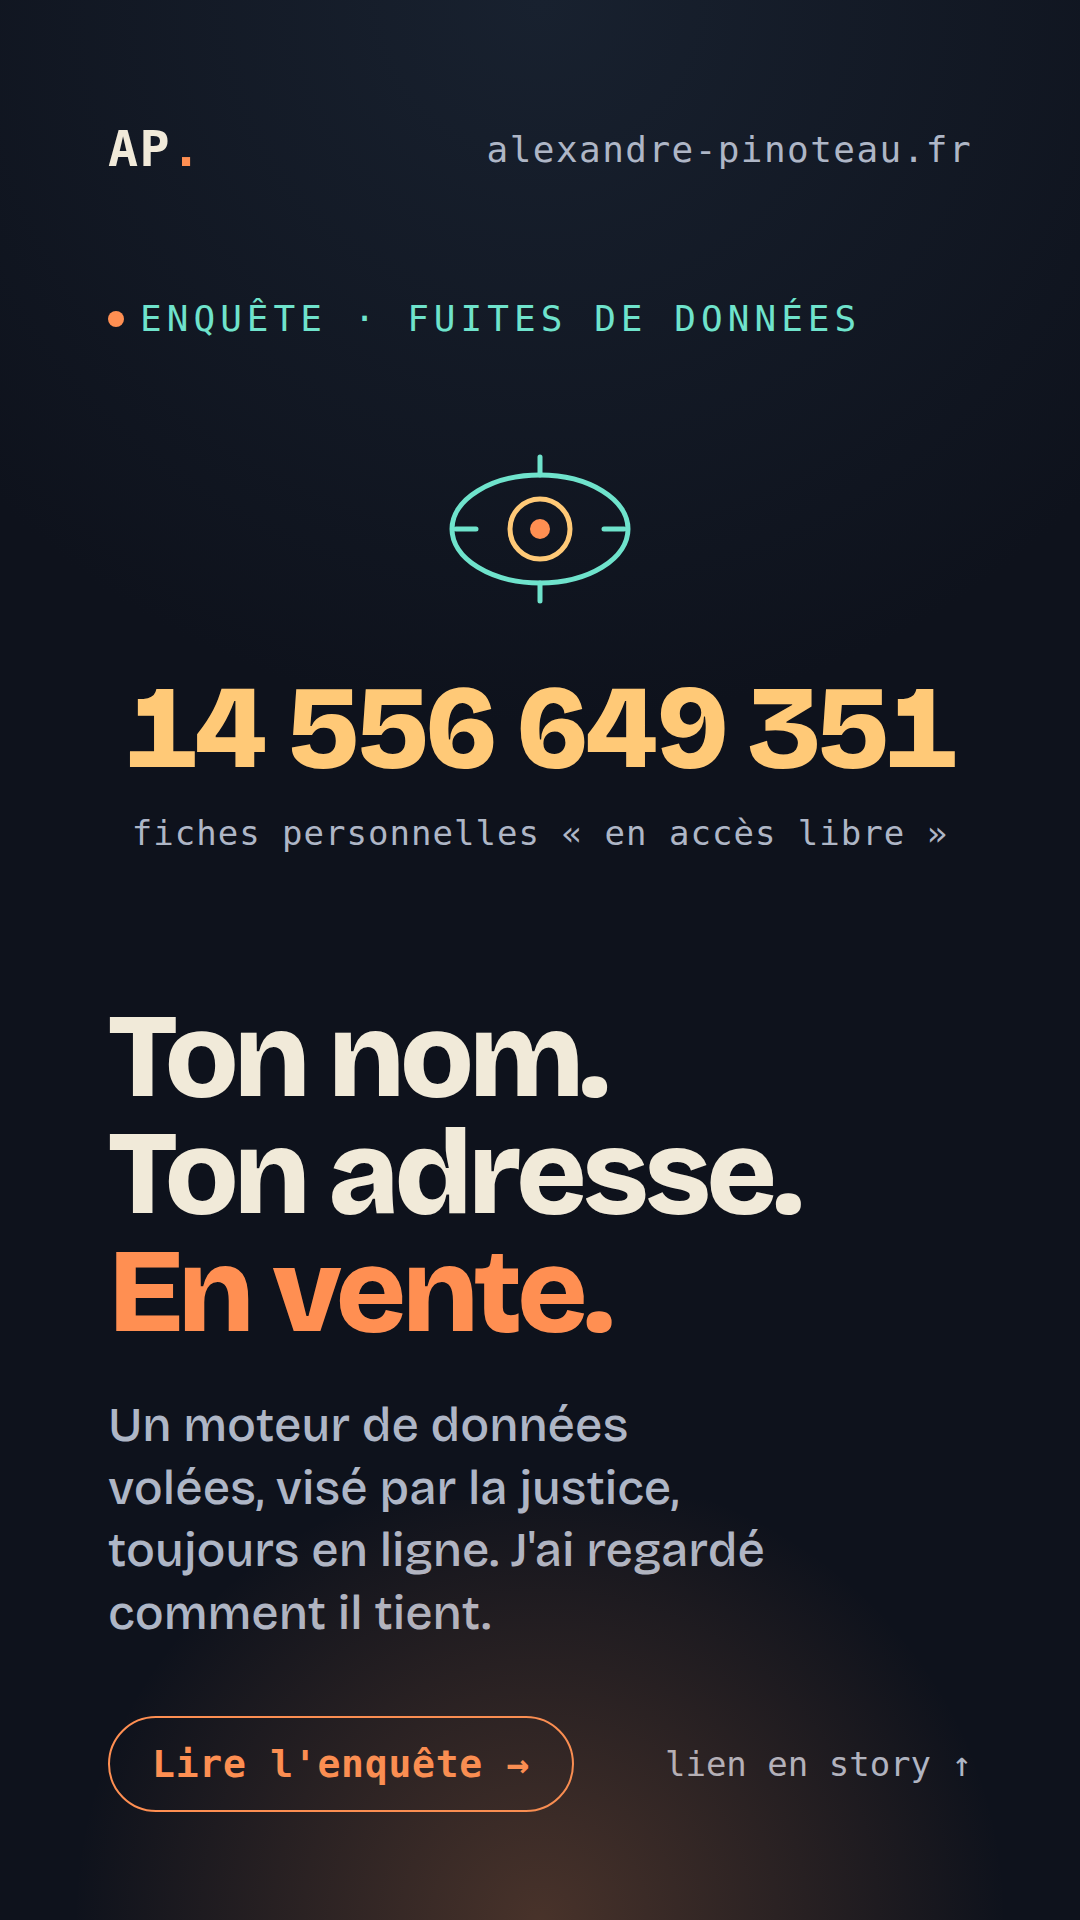
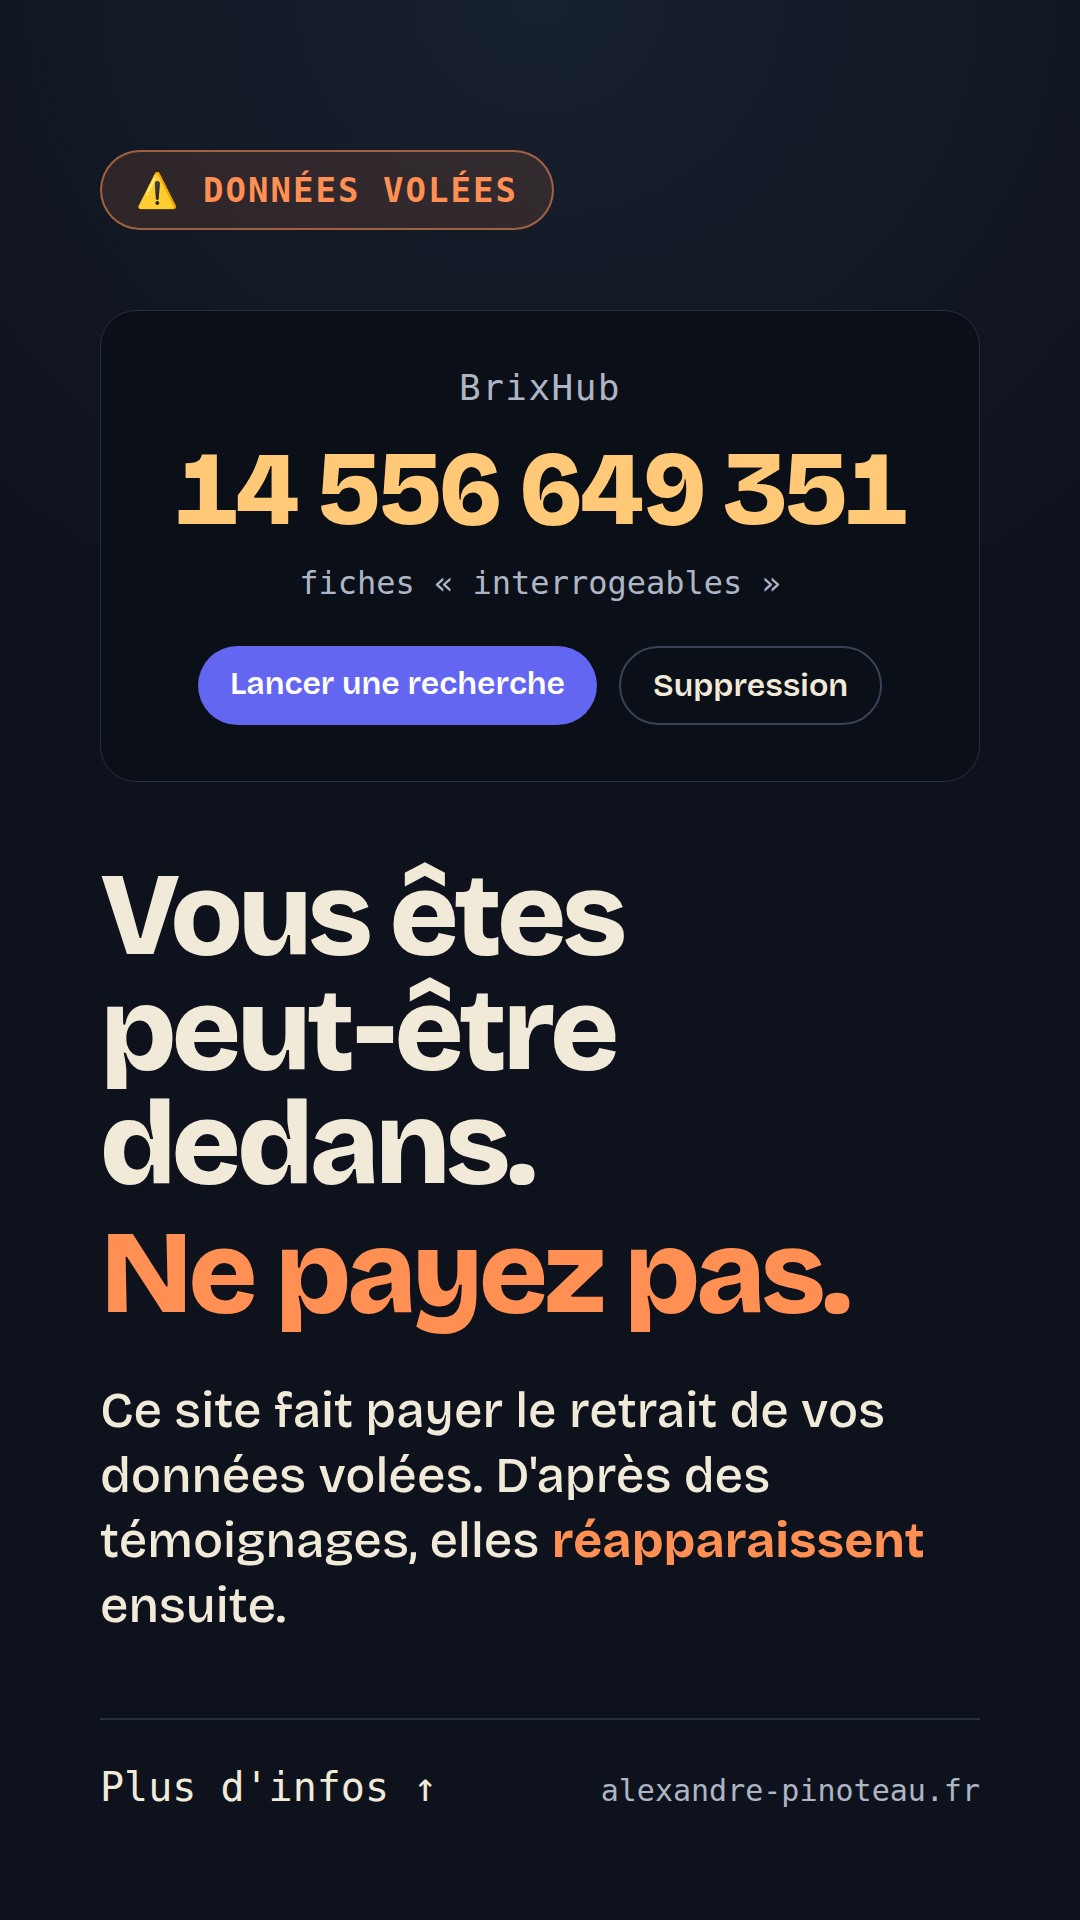
Relecture : métaphore du code réécrite, témoignages de fiches BrixHub réapparues, stories au ton prévention

diff --git a/site/blog/brixhub.html b/site/blog/brixhub.html
@@ -73,6 +73,7 @@
       <p class="t">C'est le piège dans le piège</p>
       <p>Vous paieriez les gens qui détiennent vos données volées, pour qu'ils promettent de les effacer. Rien ne garantit qu'ils le font. Et si vous envoyez votre pièce d'identité, vous leur donnez une donnée de plus, parfaitement authentique cette fois. Le gouvernement comme la CNIL sont formels : <strong>ne payez pas, n'envoyez rien</strong>.</p>
     </div>
+    <p>Et ce n'est pas qu'une mise en garde théorique. Sur X (ex-Twitter), des internautes racontent avoir payé pour faire retirer leur fiche : elle a bien disparu… quelques jours, avant de <strong>réapparaître</strong>. Normal : effacer une ligne d'un affichage ne fait pas disparaître la donnée du fichier volé, que l'opérateur garde. Il peut la remettre en ligne, la revendre, ou vous refaire payer.</p>
 
     <figure class="shot"><img src="img/brixhub/brixhub-recherche.webp" width="1400" height="1050" loading="lazy" alt="Page de recherche de BrixHub : des champs « Nom », « Prénom », « Nom de naissance », « Nom affiché », et des sections repliées « Naissance », « Contact », « Localisation »."><figcaption>Le formulaire de recherche. On y entre un nom, un prénom, une date de naissance. La promesse affichée : « Un critère. Tout ce qui a fuité. »</figcaption></figure>
 
@@ -202,7 +203,7 @@
     <ul>
       <li><strong>L'hébergeur réel du site</strong> et l'identité des opérateurs : masqués. Rien d'attribuable par les seules sources passives.</li>
       <li><strong>L'origine réelle des données</strong> : le site affiche des sources prestigieuses (organismes publics), aucune confirmée. Je ne reprends pas ces affirmations.</li>
-      <li><strong>Les montants exacts</strong> et l'existence réelle de l'API et des abonnements reposent sur des témoignages de seconde main.</li>
+      <li><strong>Les montants exacts</strong> et l'existence réelle de l'API et des abonnements reposent sur des témoignages de seconde main. Même chose pour les fiches payées puis réapparues : ce sont des témoignages d'internautes sur X, cohérents avec le fonctionnement du service, mais que je n'ai pas pu vérifier un par un.</li>
       <li>Plusieurs <strong>articles de presse</strong> (franceinfo, Le Monde, Siècle Digital…) n'ont pas pu être lus en entier, seulement par leurs titres et extraits.</li>
     </ul>
 

diff --git a/site/blog/arnaque-vote-whatsapp.html b/site/blog/arnaque-vote-whatsapp.html
@@ -146,7 +146,7 @@
 
     <div class="box teal">
       <p class="t">L'image à retenir</p>
-      <p>C'est comme si un inconnu sonnait chez toi en disant : « pour valider ta participation au concours, lis-moi le code qui vient d'arriver sur ton téléphone ». Ce code, c'est celui de ta serrure.</p>
+      <p>Le code qu'on te demande n'a rien à voir avec un vote : c'est un <strong>double de tes clés</strong>. Tu ne donnerais jamais le double de tes clés à un inconnu pour « valider ta participation » à un concours. Ici, c'est pareil. Avec ce double, il entre chez toi quand il veut, lit ton courrier et parle à tes proches en se faisant passer pour toi. Et comme tu as gardé tes propres clés, tu ne remarques rien.</p>
     </div>
 
     <h2><span class="n">03</span>Pourquoi des danseuses, toujours ?</h2>

diff --git a/press/PACK-PUBLICATION.md b/press/PACK-PUBLICATION.md
@@ -1,77 +1,38 @@
 # Pack de publication — stories WhatsApp
 
-Rien n'est en ligne. Ces liens sont des **aperçus privés** (branche, via githack) pour ta relecture.
-Une fois que tu me dis « publie », les vrais liens deviennent :
+Ton : prévention d'abord. « Vous avez reçu ça ? C'est une arnaque. Si vous êtes curieux, voilà plus d'infos. »
 
-- Arnaque au vote → `https://alexandre-pinoteau.fr/blog/arnaque-vote-whatsapp.html`
-- BrixHub → `https://alexandre-pinoteau.fr/blog/brixhub.html`
+Liens (en ligne) :
+- Arnaque au vote → https://alexandre-pinoteau.fr/blog/arnaque-vote-whatsapp.html
+- BrixHub → https://alexandre-pinoteau.fr/blog/brixhub.html
 
-Aperçus pour relire maintenant :
-- Vote : https://raw.githack.com/Iskandeur/lipu-mi-sin/blog-enquetes/site/blog/arnaque-vote-whatsapp.html
-- BrixHub : https://raw.githack.com/Iskandeur/lipu-mi-sin/blog-enquetes/site/blog/brixhub.html
+## Comment poster
 
-Astuce : chaque article s'ouvre d'office en version **tout public**. Les ancres `#tout-public` et `#technique`
-forcent l'une ou l'autre — pratique si tu veux partager directement la version technique à un public cyber.
+1. WhatsApp → Statut → ajoute l'image (`story-vote.png` ou `story-brixhub.png`, format 1080×1920).
+2. Dans la légende, colle un des textes ci-dessous. Le lien est cliquable dans la légende d'un statut.
+3. Si le lien passe mal sous l'image : poste un 2ᵉ statut juste après, en texte, avec le lien seul.
 
----
+## Arnaque au vote — `story-vote.png`
 
-## Comment poster (WhatsApp Statut)
+Version courte :
+> Vous avez reçu ce message ? C'est une arnaque : ne votez pas et ne tapez jamais un code WhatsApp sur un site.
+> Si vous êtes curieux, plus d'infos ici 👇
+> https://alexandre-pinoteau.fr/blog/arnaque-vote-whatsapp.html
 
-1. Nouveau statut → ajoute l'image verticale (`story-vote.png` ou `story-brixhub.png`, déjà en 1080×1920).
-2. Dans la légende, colle un des textes ci-dessous **avec le lien**. Sur WhatsApp, un lien dans la légende
-   d'un statut est cliquable.
-3. Option : poste deux statuts d'affilée (image + un 2ᵉ statut texte avec juste le lien bien visible), certains
-   lisent mieux le lien comme ça.
+Version un peu plus longue :
+> ⚠ Un message « vote pour la fille de mes amis » circule sur WhatsApp, souvent envoyé par un proche dont le
+> compte a déjà été volé. C'est une arnaque. Si vous avez cliqué, allez voir Réglages → Appareils connectés.
+> Explications ici 👇
+> https://alexandre-pinoteau.fr/blog/arnaque-vote-whatsapp.html
 
-> Le visuel dit « lien en story ↑ » : il renvoie au texte/lien que tu mets au-dessus, c'est fait exprès.
+## BrixHub — `story-brixhub.png`
 
----
+Version courte :
+> Vous avez entendu parler de BrixHub ? Si vos données y sont, ne payez surtout pas pour les retirer.
+> Si vous êtes curieux, plus d'infos ici 👇
+> https://alexandre-pinoteau.fr/blog/brixhub.html
 
-## ARTICLE 1 — Arnaque au vote (image : `story-vote.png`)
-
-**Objectif : prévention dans ton entourage + montrer ce que tu fais.**
-
-Légende courte (prévention, la plus partageable) :
-> ⚠ Si tu reçois « vote pour la fille de mes amis » sur WhatsApp, ne clique pas : c'est une arnaque qui vole
-> ton compte. J'ai enquêté sur comment ça marche (et comment se protéger) 👇
-> alexandre-pinoteau.fr/blog/arnaque-vote-whatsapp.html
-
-Variante plus perso (montrer le travail) :
-> J'ai reçu cette arnaque, j'ai tiré le fil. Derrière le petit « vote pour une danseuse » : 46 faux sites,
-> deux serveurs cachés, une vraie machine à voler des comptes WhatsApp. Je raconte tout, version simple +
-> version technique 👇
-> alexandre-pinoteau.fr/blog/arnaque-vote-whatsapp.html
-
-Variante une ligne (si tu veux du minimal) :
-> Ce « vote pour Sophie » qui tourne sur WhatsApp ? Une arnaque. Je l'ai disséquée 👉 alexandre-pinoteau.fr/blog/arnaque-vote-whatsapp.html
-
----
-
-## ARTICLE 2 — BrixHub (image : `story-brixhub.png`)
-
-**Objectif : alerter sur les fuites de données + montrer l'OSINT.**
-
-Légende courte :
-> Un site met « en accès libre » 14 milliards de données volées de Français — nom, adresse, téléphone — et
-> te vend le retrait de ta fiche. Il est visé par la justice, et toujours en ligne. J'ai regardé comment il
-> tient (et quoi faire si tu es dedans) 👇
-> alexandre-pinoteau.fr/blog/brixhub.html
-
-Variante plus perso :
-> « BrixHub », tu en as peut-être entendu parler. J'ai mené l'enquête OSINT : comment il se cache, pourquoi
-> on n'arrive pas à le fermer, et ce que dit la loi. Version grand public + version technique 👇
-> alexandre-pinoteau.fr/blog/brixhub.html
-
-Variante une ligne :
-> Tes données sont peut-être sur BrixHub. Ne paie pas, ne l'utilise pas — voici pourquoi 👉 alexandre-pinoteau.fr/blog/brixhub.html
-
----
-
-## Notes
-
-- Les deux visuels reprennent ta charte (fond nuit, orange, police Bricolage) et portent `AP.` + l'URL du site,
-  donc même capturés/repartagés ils ramènent à toi.
-- Tu peux me demander d'autres formats : carré 1080×1080 (post feed), bannière LinkedIn, ou une variante sans
-  le faux message (plus sobre).
-- Si tu me fournis tes captures any.run (ou d'autres), je peux faire des visuels encore plus « preuve à l'appui »
-  et préciser le passage sur le code de jumelage.
+Version un peu plus longue :
+> ⚠ BrixHub affiche des données personnelles volées (nom, adresse, téléphone…) et fait payer pour les
+> retirer. Ne payez pas, n'envoyez pas votre pièce d'identité. Ce qu'il faut savoir et quoi faire ici 👇
+> https://alexandre-pinoteau.fr/blog/brixhub.html
